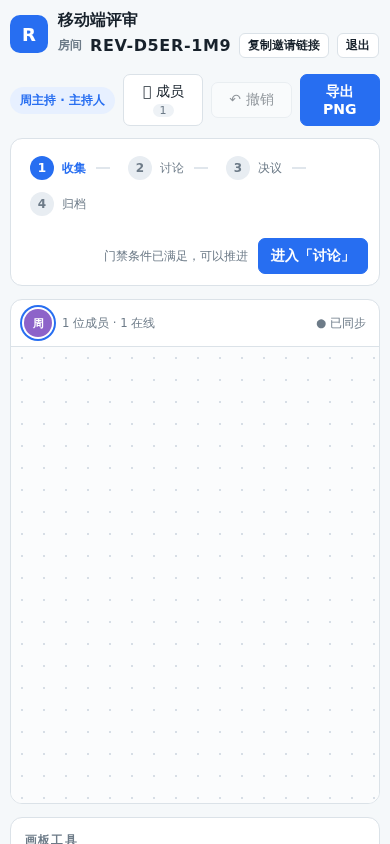
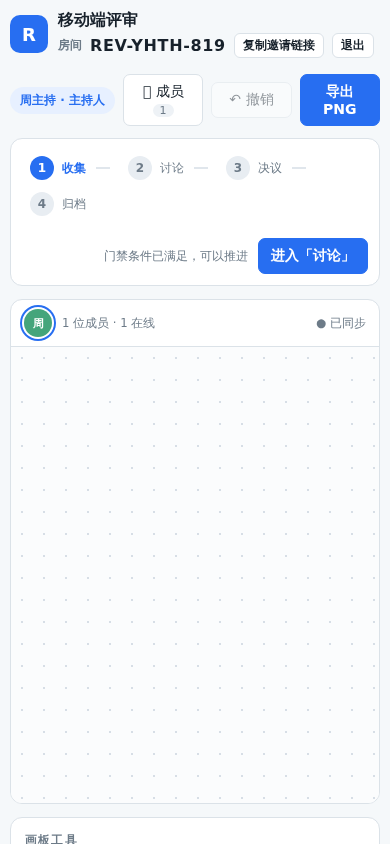
round 2: bef9bfb8-5276-457f-977a-db8ba834395b

diff --git a/app.js b/app.js
@@ -50,6 +50,7 @@ let busSupported = false;
 let tool = 'note', color = 'yellow', selectedId = null, statusFilter = 'all';
 let undoStack = [];
 let sessions = new Set([SESSION]);
+const sessionLastSeen = { [SESSION]: Date.now() };
 let currentConflictId = null;
 let editingCommentId = null;
 let pendingEvidence = null;
@@ -61,6 +62,11 @@ const canEditBoard = () => (myRole() === 'host' || myRole() === 'editor') && sta
 const canComment = () => (myRole() === 'host' || myRole() === 'editor') && state.stage !== 'archive';
 const isHost = () => myRole() === 'host';
 const memberColor = id => COLORS[(id || '').split('').reduce((a, c) => a + c.charCodeAt(0), 0) % COLORS.length];
+/* 统一拒绝：界面与调试接口（window.__rb）走同一套鉴权，无法绕过 */
+function deny(reason) { toast(reason); return false; }
+function denyBoard() { return deny(state.stage === 'archive' ? '归档阶段为只读，不能修改画板' : '观察者只能查看，不能修改画板'); }
+function denyComment() { return deny(state.stage === 'archive' ? '归档阶段为只读，不能操作意见' : '观察者只能查看，不能操作意见'); }
+function denyHost(action) { return deny(`仅主持人可以${action}`); }
 
 /* ---------------- 状态合并 ---------------- */
 function mergeState(remote) {
@@ -123,17 +129,24 @@ function connectBus() {
     bus.onmessage = ev => {
       const m = ev.data;
       if (m.session === SESSION) return;
-      sessions.add(m.session);
       if (m.kind === 'heartbeat' || m.kind === 'hello' || m.kind === 'hi') {
-        if (m.snapshot) { mergeState(m.snapshot); saveReview(state); renderPeople(); }
+        sessions.add(m.session);
+        sessionLastSeen[m.session] = Date.now();
+        // presence 消息只更新在线时间，绝不接受其中夹带的身份/角色变更
+        if (m.snapshot?.members) for (const id of Object.keys(m.snapshot.members)) {
+          if (state.members[id]) state.members[id].lastSeen = Math.max(state.members[id].lastSeen || 0, m.ts || Date.now());
+        }
+        saveReview(state); renderPeople();
         if (m.kind === 'hello') post({ kind: 'hi', snapshot: presenceSnapshot() });
+        pruneSessions();
         updateSync(); return;
       }
-      if (m.kind === 'bye') { sessions.delete(m.session); updateSync(); return; }
+      if (m.kind === 'bye') { sessions.delete(m.session); delete sessionLastSeen[m.session]; updateSync(); return; }
       if (m.kind === 'patch') handlePatch(m);
     };
     window.addEventListener('beforeunload', () => post({ kind: 'bye' }));
     setInterval(() => post({ kind: 'heartbeat', snapshot: presenceSnapshot() }), 5000);
+    setInterval(pruneSessions, 6000);
   }
   setInterval(() => { if (state && me()) { state.members[meId].lastSeen = Date.now(); saveReview(state); renderPeople(); } }, 8000);
 }
@@ -144,7 +157,7 @@ function baseSnapshot() {
   s.objects = {}; s.objectTombstones = []; s.objectRestores = [];
   s.comments = {}; s.commentTombstones = [];
   s.conflicts = []; s.conflictTombstones = [];
-  s.members = me() ? { [meId]: me() } : {};
+  s.members = {};   // 业务补丁不携带成员；成员变更必须走 member-join / member-role / member-remove
   s.audit = state.audit.slice(0, 3);
   delete s.stage;   // 阶段只随专门的阶段补丁传播，避免旧快照把阶段回退
   return s;
@@ -153,7 +166,51 @@ function presenceSnapshot() {
   const s = baseSnapshot(); s.audit = []; return s;
 }
 
+/* 入站补丁授权：按发送者在本端已知的角色判定，无权限的补丁直接丢弃
+   （即使有人通过调试接口手工 postMessage 伪造补丁也无法提权或改数据） */
+function authorizePatch(m) {
+  const snap = m.snapshot || {};
+  const sender = state.members[m.by];
+  const hasObjects = Object.keys(snap.objects || {}).length > 0 || (snap.objectTombstones || []).length > 0 || (snap.objectRestores || []).length > 0;
+  const hasComments = Object.keys(snap.comments || {}).length > 0 || (snap.commentTombstones || []).length > 0;
+  const hasMembers = Object.keys(snap.members || {}).length > 0;
+  const hasConflict = (snap.conflicts || []).length > 0 || (snap.conflictTombstones || []).length > 0;
+  const role = sender?.role;
+  const editor = role === 'host' || role === 'editor';
+  const archived = state.stage === 'archive';
+
+  if (m.patchType === 'member-join') {
+    // 自介绍：允许一个尚不存在的成员（首次握手），或已知成员重发；不能自封主持人
+    const [id, mm] = Object.entries(snap.members || {})[0] || [];
+    const known = state.members[id];
+    const roleOk = mm.role === 'editor' || mm.role === 'observer';
+    if (id !== m.by || !mm || mm.removed || !roleOk) return false;
+    if (known) return known.role === mm.role || known.role === 'host';  // 已有记录时不能借握手改身份
+    return true;
+  }
+  if (!sender) return false;                       // 未知发送者
+  if (m.patchType === 'member-role' || m.patchType === 'member-remove') return role === 'host';
+  if (m.patchType === 'conflict-resolve') return role === 'host';
+  if (archived && (hasObjects || hasComments)) return false;
+  if (m.patchType === 'object-update' || m.patchType === 'object-delete') return editor;
+  if (m.patchType === 'conflict-detected') return editor;
+  if (hasComments) {
+    if (!editor) return false;
+    if ((snap.commentTombstones || []).length) {   // 删除意见：本人或主持人
+      const id = snap.commentTombstones[0];
+      return role === 'host' || state.comments[id]?.by === m.by;
+    }
+    return true;
+  }
+  if (hasMembers) return false;                    // 成员变更只能走上面的专用类型
+  if (hasObjects) return editor;
+  if (hasConflict) return editor;
+  // 纯审计类 state 补丁：只有主持人（如被门禁阻止的推进尝试）
+  return role === 'host';
+}
+
 function handlePatch(m) {
+  if (!authorizePatch(m)) { console.warn('丢弃无权限的同步补丁', m.patchType, m.byName); return; }
   if (m.patchType === 'object-update' && m.verTag && m.baseTag !== m.verTag) {
     const cur = state.objects[m.objectId];
     const divergent = cur && cur.verTag !== m.verTag && cur.verTag !== m.baseTag;
@@ -290,6 +347,10 @@ function joinReview(id, name, role) {
     `${name} 以${ROLE[role]}身份加入评审`, true);
   sessionStorage.setItem(SS_ME + id, memberId);
   connectBus();
+  // 自介绍：只能以编辑者/观察者身份加入，主持人身份只能由现有主持人授予
+  const snap = baseSnapshot();
+  snap.members = { [memberId]: state.members[memberId] };
+  post({ kind: 'patch', patchType: 'member-join', by: memberId, byName: name, snapshot: snap });
   post({ kind: 'hello', snapshot: presenceSnapshot() });
   location.hash = '#room=' + id;
   showApp();
@@ -419,7 +480,7 @@ function makeObject(type, x, y) {
   };
 }
 function placeObject(x, y) {
-  if (!canEditBoard()) return;
+  if (!canEditBoard()) return denyBoard();
   const o = makeObject(tool, x, y);
   undoStack.push({ kind: 'add', id: o.id });
   commit(s => { s.objects[o.id] = o; });
@@ -428,6 +489,7 @@ function placeObject(x, y) {
 }
 function updateObjectText(id, text) {
   const cur = state.objects[id];
+  if (!canEditBoard()) return denyBoard();
   if (!cur || blockedByConflict(id)) return;
   const baseTag = cur.verTag;
   const updated = { ...cur, text, version: cur.version + 1, verTag: uid('v'), updatedBy: meId, updatedTs: Date.now() };
@@ -437,6 +499,7 @@ function updateObjectText(id, text) {
 }
 function deleteObject(id) {
   const cur = state.objects[id];
+  if (!canEditBoard()) return denyBoard();
   if (!cur || blockedByConflict(id)) return;
   undoStack.push({ kind: 'delete', obj: structuredClone(cur) });
   commit(s => { delete s.objects[id]; if (!s.objectTombstones.includes(id)) s.objectTombstones.push(id); });
@@ -451,7 +514,8 @@ function blockedByConflict(id) {
   return false;
 }
 function undo() {
-  if (!canEditBoard() || !undoStack.length) return;
+  if (!canEditBoard()) return denyBoard();
+  if (!undoStack.length) return;
   const act = undoStack.pop();
   if (act.kind === 'add') {
     const cur = state.objects[act.id]; if (!cur) return;
@@ -528,6 +592,7 @@ function renderComments() {
 }
 
 function changeStatus(c, next) {
+  if (!canComment()) return denyComment();
   const allowed = { open: ['reviewing'], reviewing: ['approved', 'rejected', 'open'], approved: ['reviewing'], rejected: ['reviewing'] };
   if (!allowed[c.status]?.includes(next)) { toast(`不能从「${STATUS[c.status]}」直接变为「${STATUS[next]}」`); renderComments(); return; }
   const from = c.status;
@@ -567,6 +632,7 @@ function openCommentModal(id) {
 function saveComment() {
   const content = $('#cm-content').value.trim();
   if (!content) return toast('请填写意见内容');
+  if (!canComment()) return denyComment();
   const id = editingCommentId || uid('cm');
   const old = state.comments[id];
   let nextStatus = old ? $('#cm-status').value : 'open';
@@ -593,13 +659,20 @@ function saveComment() {
   closeModal('#commentModal');
   toast(old ? '意见已更新' : '意见已提交');
 }
-function deleteComment() {
-  const id = editingCommentId; if (!id) return;
+function removeCommentById(id) {
   const c = state.comments[id];
-  if (!confirm('确认删除该意见？')) return;
+  if (!c) return false;
+  if (!canComment()) { denyComment(); return false; }
+  if (!(isHost() || c.by === meId)) { denyHost('删除他人意见'); return false; }
   commit(s => { delete s.comments[id]; if (!s.commentTombstones.includes(id)) s.commentTombstones.push(id); },
     `删除意见「${(c.content || '').slice(0, 16)}…」`, true);
   pushStatePatch({ commentId: id, commentTombstone: true });
+  return true;
+}
+function deleteComment() {
+  const id = editingCommentId; if (!id) return;
+  if (!confirm('确认删除该意见？')) return;
+  if (!removeCommentById(id)) return;
   closeModal('#commentModal');
 }
 
@@ -618,7 +691,7 @@ function renderAudit() {
 
 /* ---------- 冲突裁决 ---------- */
 function openConflict(cf) {
-  if (!isHost()) return toast('冲突由主持人裁决');
+  if (!isHost()) return denyHost('裁决冲突');
   currentConflictId = cf.id;
   const A = cf.versionA, B = cf.versionB;
   const hasText = A.type === 'note' || A.type === 'text';
@@ -633,6 +706,7 @@ function openConflict(cf) {
   openModal('#conflictModal');
 }
 function resolveConflict(pick) {
+  if (!isHost()) return denyHost('裁决冲突');
   const cf = state.conflicts.find(c => c.id === currentConflictId);
   if (!cf) return;
   const A = cf.versionA, B = cf.versionB;
@@ -690,16 +764,18 @@ function openMembers() {
   openModal('#membersModal');
 }
 function changeRole(m, role, sel) {
+  if (!isHost()) return denyHost('管理成员身份');
   if (m.role === 'host' && role !== 'host' && Object.values(state.members).filter(x => x.role === 'host').length <= 1) {
     toast('至少保留一位主持人'); sel.value = 'host'; return;
   }
   const old = m.role;
   commit(s => { s.members[m.id].role = role; }, `成员身份变更：${m.name} ${ROLE[old]} → ${ROLE[role]}`, true);
-  pushStatePatch({ members: { [m.id]: state.members[m.id] } });
+  pushStatePatch({ members: { [m.id]: state.members[m.id] }, patchType: 'member-role' });
   toast(`${m.name} 的身份已更新为${ROLE[role]}`);
   openMembers();
 }
 function removeMember(m) {
+  if (!isHost()) return denyHost('移除成员');
   if (!confirm(`确认将 ${m.name} 移出评审？`)) return;
   commit(s => { delete s.members[m.id]; }, `移除成员：${m.name}（原${ROLE[m.role]}）`, true);
   const snap = baseSnapshot();
@@ -779,6 +855,13 @@ function updateSync() {
   const s = $('#sync');
   s.textContent = sessions.size > 1 ? `● ${sessions.size} 个标签已连接` : '● 已同步（本地持久化）';
   s.className = 'sync-ok';
+}
+/* 超过 12 秒没发心跳的标签视为已关闭（一次性伪造通道不会心跳，自然被清除） */
+function pruneSessions() {
+  const now = Date.now();
+  for (const sid of sessions) {
+    if (sid !== SESSION && now - (sessionLastSeen[sid] || 0) > 12000) { sessions.delete(sid); delete sessionLastSeen[sid]; }
+  }
 }
 
 /* ---------------- 启动 ---------------- */
@@ -933,50 +1016,57 @@ $('#copy').onclick = async () => {
 };
 $('#exit').onclick = () => { location.hash = ''; showLanding(); };
 
-/* ---------------- 测试钩子（自动化验证用） ---------------- */
-window.__rb = {
-  get state() { return state; },
-  get meId() { return meId; },
-  sessions: () => sessions,
-  setRole(role) { commit(s => { s.members[meId].role = role; }, `成员身份变更：${me().name} → ${ROLE[role]}`, true); pushStatePatch({ members: { [meId]: state.members[meId] } }); },
-  addMember(name, role) {
-    const id = uid('mb');
-    commit(s => { s.members[id] = { id, name, role, joinedAt: Date.now(), lastSeen: Date.now() }; }, `${name} 以${ROLE[role]}身份加入评审`, true);
-    pushStatePatch({ members: { [id]: state.members[id] } });
-    return id;
-  },
-  actAs(id) { meId = id; sessionStorage.setItem(SS_ME + state.id, id); render(); },
-  advance, backStage, undo,
-  gate: gateForNext,
-  place(type, x, y) { tool = type; placeObject(x, y); return selectedId; },
-  setText(id, text) { updateObjectText(id, text); },
-  snapshotObject: id => structuredClone(state.objects[id]),
-  /* 确定性制造冲突：传入“对方编辑前看到的对象快照”与对方的改动 */
-  remoteUpdate(id, baseObj, patch, name = '其他编辑者') {
-    if (!state.members.remote) {
-      commit(s => { s.members.remote = { id: 'remote', name, role: 'editor', joinedAt: Date.now(), lastSeen: Date.now() }; });
-    }
-    const proposed = { ...structuredClone(baseObj), ...patch, version: baseObj.version + 1, verTag: uid('v'), updatedBy: 'remote', updatedTs: Date.now() + 1 };
-    const snap = baseSnapshot();
-    snap.members = { remote: state.members.remote };
-    snap.objects = { [id]: proposed };
-    snap.conflicts = [];
-    handlePatch({ session: 'remote-' + uid('s'), ts: Date.now(), kind: 'patch', by: 'remote', byName: name, patchType: 'object-update', objectId: id, baseTag: baseObj.verTag, verTag: proposed.verTag, proposed, snapshot: snap });
-  },
-  conflicts: () => state.conflicts,
-  openConflict(id) { const cf = state.conflicts.find(c => id ? c.id === id : !c.resolved); if (cf) openConflict(cf); },
-  setMergeText(t) { $('#cf-merge').value = t; },
-  resolve: resolveConflict,
-  addComment(content, opts = {}) {
-    const id = uid('cm');
-    const rec = { id, content, ownerId: opts.ownerId || meId, priority: opts.priority || 'medium', status: opts.status || 'open', by: meId, ts: Date.now(), updatedTs: Date.now(), objectId: opts.objectId || null, evidence: null, evidenceName: null };
-    commit(s => { s.comments[id] = rec; }, `提交意见「${content.slice(0, 16)}…」（负责人：${me().name}，优先级${PRIORITY[rec.priority]}）`);
-    pushStatePatch({ commentId: id });
-    return id;
-  },
-  setStatus(id, st) { changeStatus(state.comments[id], st); },
-  exportPNG,
-  STAGES, STATUS,
-};
+/* ---------------- 测试钩子（仅 ?rbtest=1 时挂载，普通访问完全不存在） ---------------- */
+if (new URLSearchParams(location.search).has('rbtest')) {
+  window.__rb = {
+    get state() { return state; },
+    get meId() { return meId; },
+    sessions: () => sessions,
+    /* 改身份：走与主持人弹窗完全相同的内部路径（观察者调用会被拒） */
+    setRole(role) { changeRole(me(), role); },
+    addMember(name, role) {
+      if (!isHost()) { denyHost('添加成员'); return null; }
+      const id = uid('mb');
+      commit(s => { s.members[id] = { id, name, role, joinedAt: Date.now(), lastSeen: Date.now() }; }, `${name} 以${ROLE[role]}身份加入评审`, true);
+      pushStatePatch({ members: { [id]: state.members[id] }, patchType: 'member-role' });
+      return id;
+    },
+    actAs(id) { meId = id; sessionStorage.setItem(SS_ME + state.id, id); render(); },
+    advance, backStage, undo,
+    gate: gateForNext,
+    place(type, x, y) { tool = type; placeObject(x, y); return selectedId; },
+    setText(id, text) { updateObjectText(id, text); },
+    snapshotObject: id => structuredClone(state.objects[id]),
+    /* 确定性制造冲突：模拟“另一位编辑者”的入站补丁（同样经过授权检查） */
+    remoteUpdate(id, baseObj, patch, name = '其他编辑者') {
+      if (!state.members.remote) {
+        state.members.remote = { id: 'remote', name, role: 'editor', joinedAt: Date.now(), lastSeen: Date.now() };
+      }
+      const proposed = { ...structuredClone(baseObj), ...patch, version: baseObj.version + 1, verTag: uid('v'), updatedBy: 'remote', updatedTs: Date.now() + 1 };
+      const snap = baseSnapshot();
+      snap.objects = { [id]: proposed };
+      snap.conflicts = [];
+      handlePatch({ session: 'remote-' + uid('s'), ts: Date.now(), kind: 'patch', by: 'remote', byName: name, patchType: 'object-update', objectId: id, baseTag: baseObj.verTag, verTag: proposed.verTag, proposed, snapshot: snap });
+    },
+    /* 以“自己的身份”向总线投递任意补丁，用于验证越权补丁会被丢弃 */
+    rawPost(msg) { post({ kind: 'patch', by: meId, byName: me()?.name, snapshot: baseSnapshot(), ...msg }); },
+    conflicts: () => state.conflicts,
+    openConflict(id) { const cf = state.conflicts.find(c => id ? c.id === id : !c.resolved); if (cf) openConflict(cf); },
+    setMergeText(t) { $('#cf-merge').value = t; },
+    resolve: resolveConflict,
+    addComment(content, opts = {}) {
+      if (!canComment()) { denyComment(); return null; }
+      const id = uid('cm');
+      const rec = { id, content, ownerId: opts.ownerId || meId, priority: opts.priority || 'medium', status: opts.status || 'open', by: meId, ts: Date.now(), updatedTs: Date.now(), objectId: opts.objectId || null, evidence: null, evidenceName: null };
+      commit(s => { s.comments[id] = rec; }, `提交意见「${content.slice(0, 16)}…」（负责人：${state.members[rec.ownerId]?.name || me().name}，优先级${PRIORITY[rec.priority]}）`);
+      pushStatePatch({ commentId: id });
+      return id;
+    },
+    setStatus(id, st) { changeStatus(state.comments[id], st); },
+    removeComment(id) { deleteComment(id); },
+    exportPNG,
+    STAGES, STATUS,
+  };
+}
 
 boot();

diff --git a/README.md b/README.md
@@ -5,9 +5,13 @@
 ## 角色与权限
 
 - **主持人**：创建评审并指定成员身份；可绘制、提交意见、管理成员（改身份/移除）、裁决冲突、推进与回退阶段。
-- **编辑者**：绘制/拖动/编辑/删除元素、提交意见与图片证据、流转意见状态。
+- **编辑者**：绘制/拖动/编辑/删除元素、提交意见与图片证据、流转意见状态；不能推进阶段、管理成员或裁决冲突，也不能删除他人意见。
 - **观察者**：只读，可浏览画板、意见、审计并导出 PNG。
 - 归档阶段空间锁定，所有身份均为只读。
+
+### 鉴权位置（界面与调试接口一致）
+
+权限检查在**核心变更函数和入站同步补丁两层**强制生效，而非仅禁用按钮：通过 DevTools 调用内部函数、调用页面调试接口（`window.__rb`，且仅在带 `?rbtest=1` 时才挂载）或手工向 BroadcastChannel 投递伪造补丁（自封主持人、移除他人、伪造对象/意见变更、冒充未知成员）都会被拒绝或丢弃。主持人/编辑者的正常流程不受影响。
 
 ## 意见
 
@@ -38,4 +42,4 @@
 ## 文件
 
 - `index.html` / `styles.css` / `app.js`：应用。
-- `.verify/`：Playwright 真实浏览器端到端测试（`run-tests.mjs`，53 项断言）与 jsdom DOM 级测试（`dom-tests.mjs`，57 项断言）。
+- `.verify/`：Playwright 真实浏览器端到端测试（`run-tests.mjs`，75 项断言，含观察者越权/伪造补丁失败用例与编辑者权限边界）与 jsdom DOM 级测试（`dom-tests.mjs`，71 项断言）。测试钩子仅在 `?rbtest=1` 下存在。
